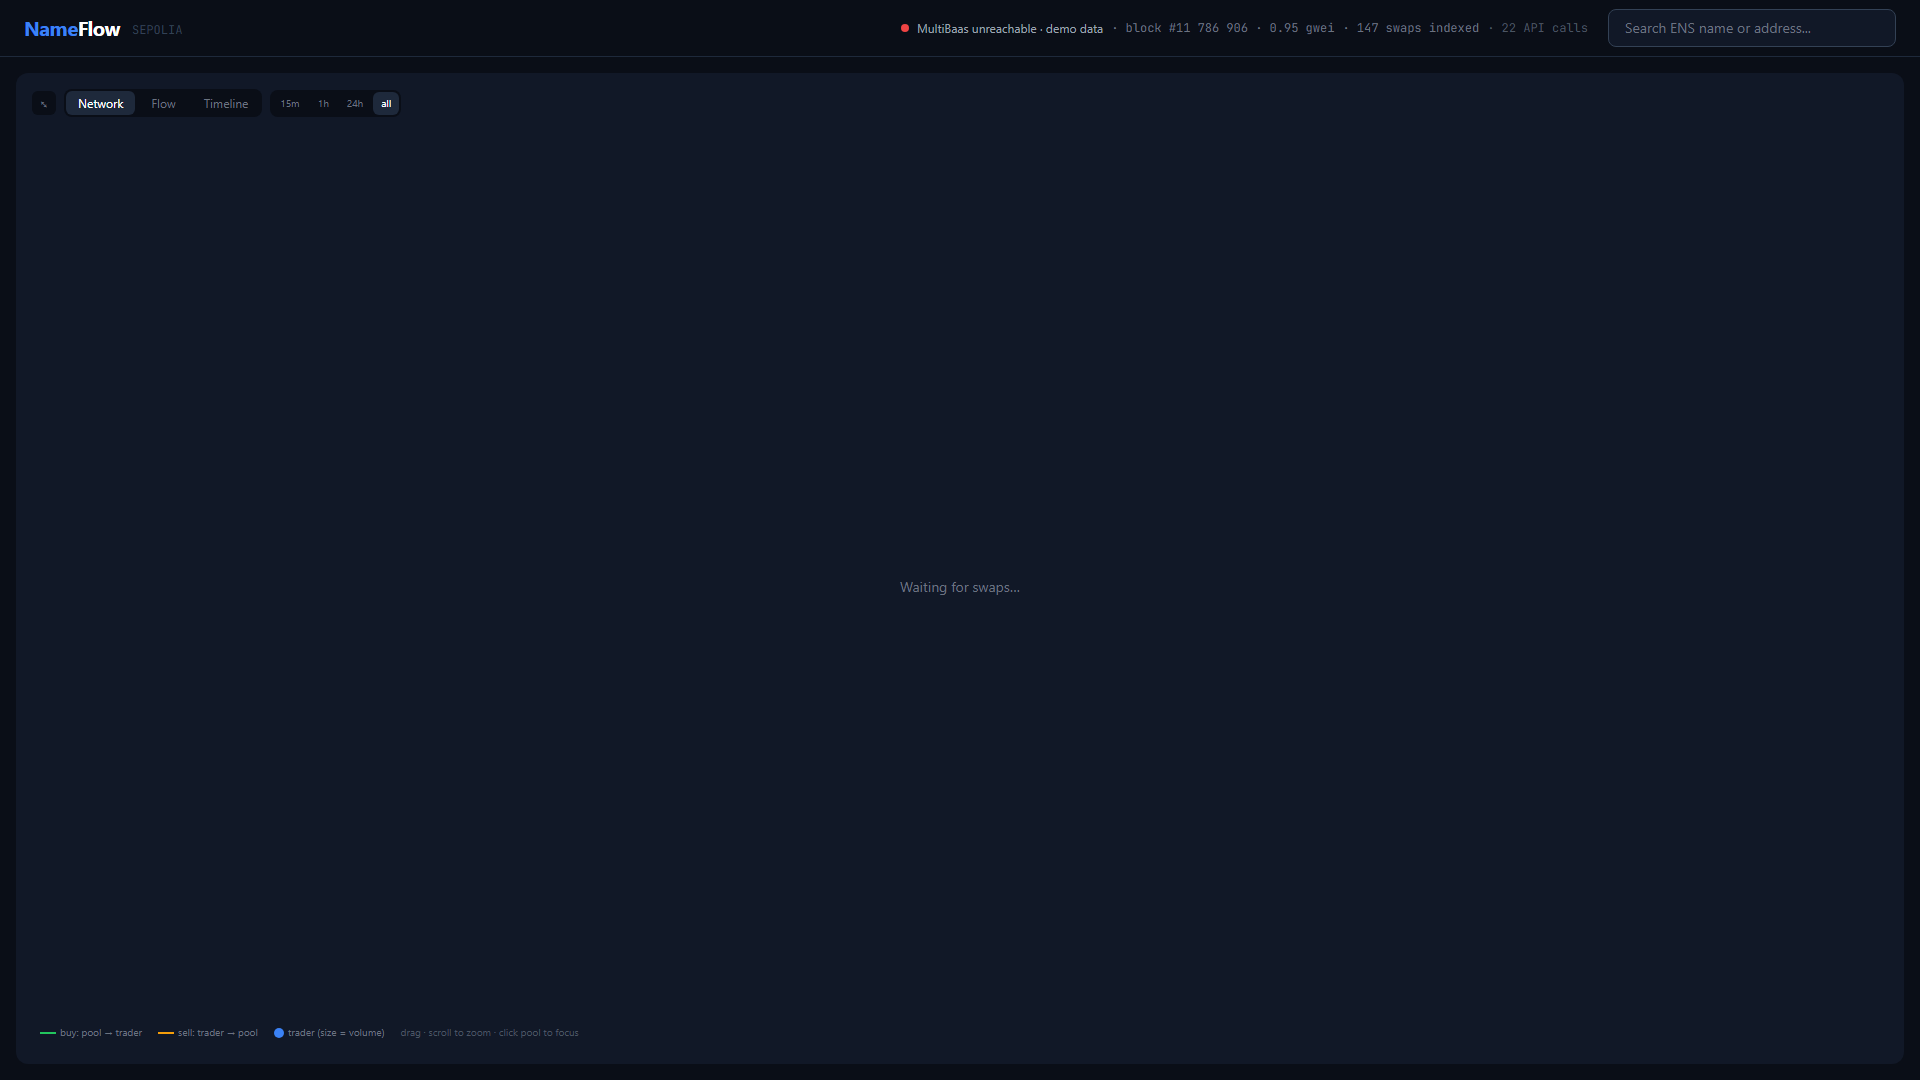
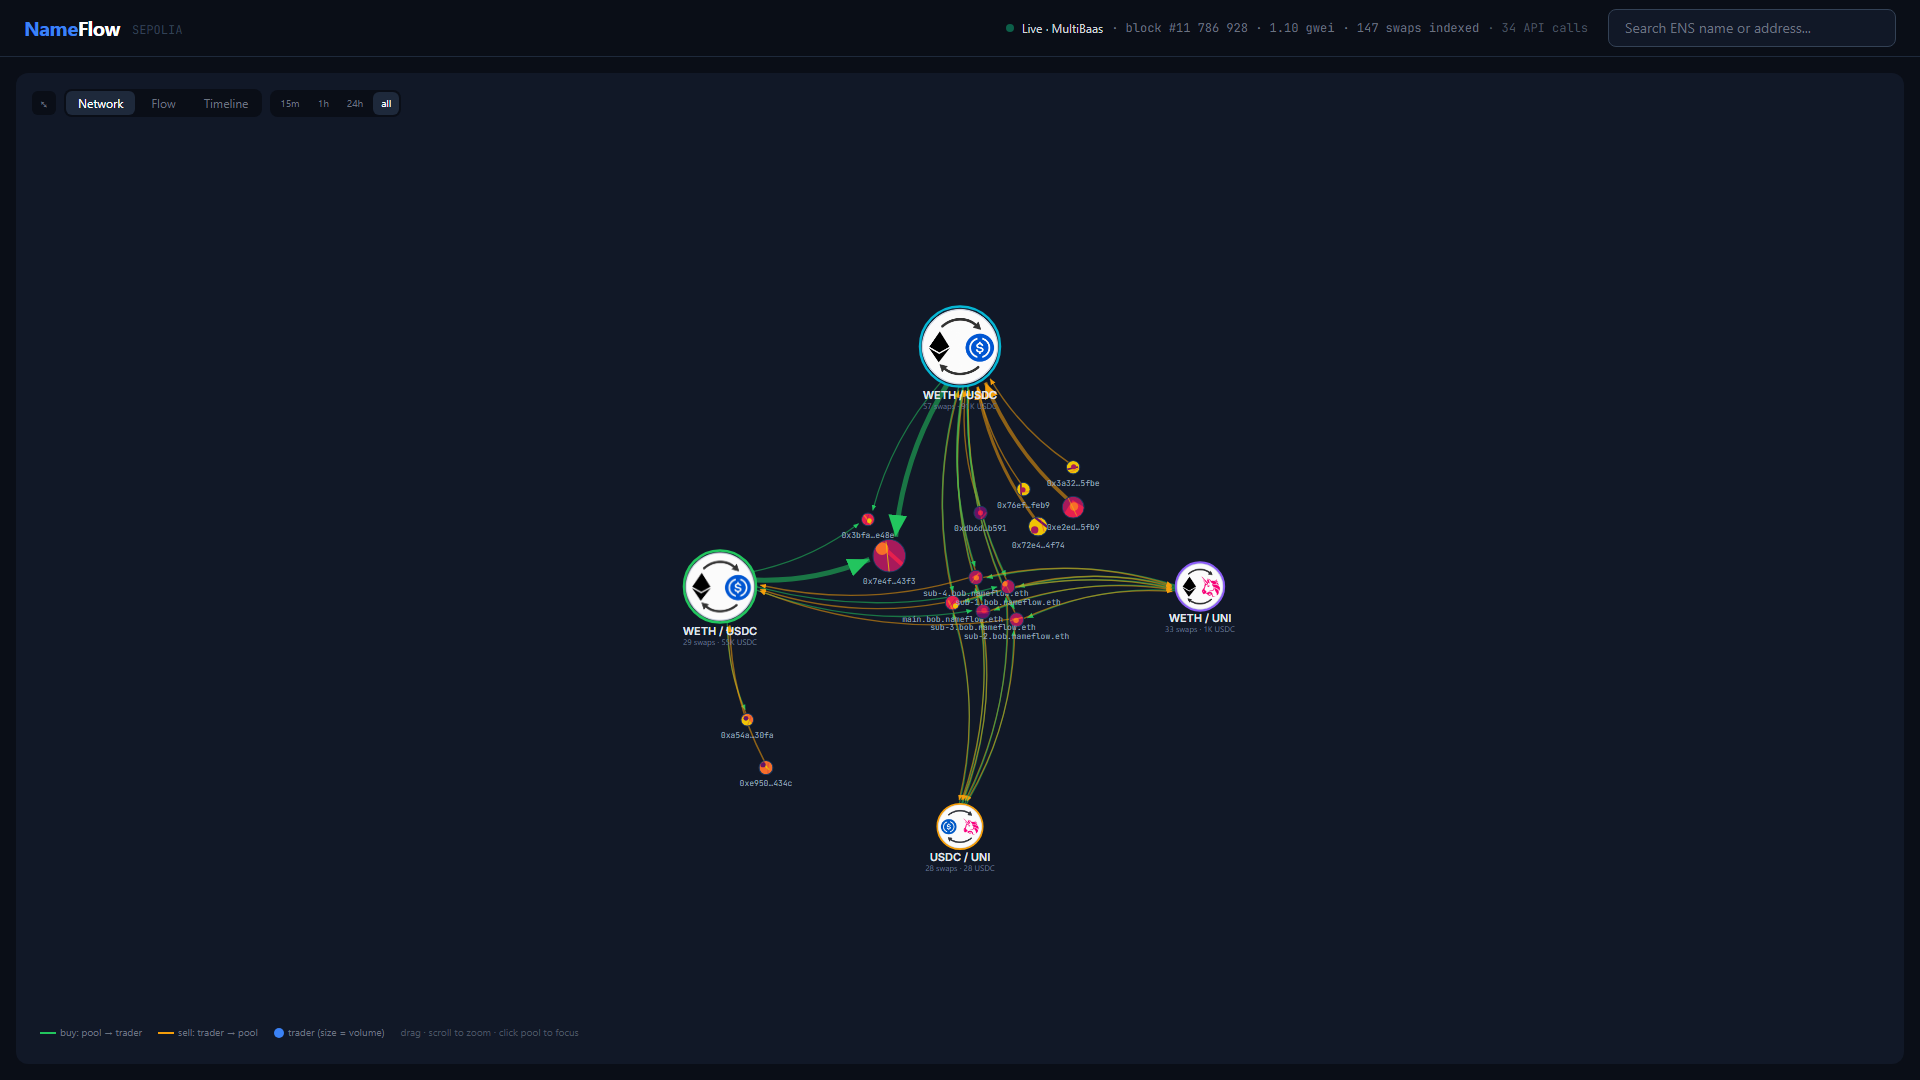
Graph auto-fits its panel; header needs two failed polls before showing unreachable; Sankey clears header

Changed region(s): [[0.3438, 0.275, 0.6562, 0.7944], [0.4688, 0.0, 0.5625, 0.0306], [0.375, 0.6417, 0.4062, 0.7333]]

diff --git a/src/components/ForceGraph.vue b/src/components/ForceGraph.vue
@@ -48,6 +48,7 @@ let H = 0
 let nodeSel = null
 let linkSel = null
 let zoom = null
+let userZoomed = false
 
 const nodeCache = new Map()     // id -> node object (positions survive re-renders)
 const animatedIds = new Set()   // swap ids that already got a particle
@@ -80,6 +81,7 @@ onMounted(() => {
     H = height
     if (!svg) initGraph()
     else if (sizeChanged) {
+      userZoomed = false
       svg.attr('viewBox', `0 0 ${W} ${H}`)
       simulation.force('center', d3.forceCenter(W / 2, H / 2))
       updateGraph()
@@ -127,7 +129,10 @@ function initGraph() {
   root.append('g').attr('class', 'particles')
   root.append('g').attr('class', 'nodes')
 
-  zoom = d3.zoom().scaleExtent([0.4, 3]).on('zoom', (event) => root.attr('transform', event.transform))
+  zoom = d3.zoom().scaleExtent([0.4, 3]).on('zoom', (event) => {
+    root.attr('transform', event.transform)
+    if (event.sourceEvent) userZoomed = true // wheel/drag by the user: stop auto-fitting
+  })
   svg.call(zoom).on('dblclick.zoom', null)
   svg.on('click', (event) => {
     if (event.target === svg.node()) emit('select-trader', '')
@@ -139,7 +144,7 @@ function initGraph() {
     .force('center', d3.forceCenter(W / 2, H / 2))
     .force('collision', d3.forceCollide().radius((d) => d.r + 10))
     .alphaDecay(0.04)
-    .on('end', savePositions)
+    .on('end', () => { savePositions(); fitToView() })
 
   updateGraph()
 }
@@ -337,6 +342,21 @@ function updateGraph() {
 
   applyEmphasis()
   animateNewSwaps()
+}
+
+/** Zoom so the settled graph fills the panel (larger panels, e.g. full view, get a larger graph). */
+function fitToView() {
+  if (userZoomed || !simulation || !zoom || !W || !H) return
+  const nodes = simulation.nodes()
+  if (nodes.length < 2) return
+  const xs = nodes.map((n) => n.x), ys = nodes.map((n) => n.y)
+  const pad = 70
+  const bw = Math.max(d3.max(xs) - d3.min(xs), 1) + pad * 2
+  const bh = Math.max(d3.max(ys) - d3.min(ys), 1) + pad * 2
+  const scale = Math.max(0.5, Math.min(2.2, Math.min(W / bw, H / bh)))
+  const cx = (d3.max(xs) + d3.min(xs)) / 2, cy = (d3.max(ys) + d3.min(ys)) / 2
+  const t = d3.zoomIdentity.translate(W / 2 - cx * scale, H / 2 - cy * scale).scale(scale)
+  svg.transition().duration(600).call(zoom.transform, t)
 }
 
 function ticked() {

diff --git a/src/composables/useMultiBaas.js b/src/composables/useMultiBaas.js
@@ -91,6 +91,7 @@ const swaps = ref([])              // parsed rows, oldest first, at most MAX_ROW
 const lastFetchedAt = ref(null)
 const apiCalls = ref(0)            // MultiBaas requests made this session
 let indexedCount = -1              // how many rows of the saved query we have accounted for
+let syncFailures = 0               // consecutive failures; the header only goes red after two
 let demoLoaded = false
 
 function tracked(promise) {
@@ -116,6 +117,7 @@ export function useMultiBaas() {
       const countRes = await tracked(eventQueries.countEventQueryRecords('swap_events'))
       const count = Number(countRes.data.result) || 0
       isLive.value = true
+      syncFailures = 0
       lastFetchedAt.value = Date.now()
       totalSwaps.value = count
 
@@ -141,7 +143,8 @@ export function useMultiBaas() {
     } catch (err) {
       console.error('MultiBaas sync failed:', err)
       error.value = err?.response?.data?.message || err.message
-      isLive.value = false
+      syncFailures++
+      if (syncFailures >= 2 || !swaps.value.length) isLive.value = false
       if (!swaps.value.length && !demoLoaded) { swaps.value = getDummySwaps(); demoLoaded = true }
       throw err
     } finally {

diff --git a/docs/media/cover.html b/docs/media/cover.html
@@ -49,7 +49,7 @@
       <circle cx="1140" cy="480" r="13" fill="#f59e0b" stroke="#0a0e17" stroke-width="4"/>
       <text x="800" y="298" text-anchor="middle" font-family="JetBrains Mono, monospace" font-size="15" fill="#94a3b8">sub-1.bob.nameflow.eth</text>
       <text x="1010" y="465" text-anchor="middle" font-family="Inter, sans-serif" font-weight="700" font-size="16" fill="#e2e8f0">WETH / USDC</text>
-      <text x="1130" y="298" text-anchor="middle" font-family="JetBrains Mono, monospace" font-size="15" fill="#94a3b8">main.bob.nameflow.eth</text>
+      <text x="1185" y="298" text-anchor="end" font-family="JetBrains Mono, monospace" font-size="15" fill="#94a3b8">main.bob.nameflow.eth</text>
     </g>
   </svg>
   <div class="content">

diff --git a/src/components/FlowSankey.vue b/src/components/FlowSankey.vue
@@ -78,7 +78,7 @@ function draw() {
     .nodePadding(Math.max(6, Math.min(18, height / (nodeMap.size + 2))))
     .nodeAlign(sankeyJustify)
     .nodeSort((a, b) => b.value - a.value)
-    .extent([[Math.min(190, Math.round(width * 0.18)), 16], [width - 70, height - 6]])({
+    .extent([[Math.min(190, Math.round(width * 0.18)), 34], [width - 70, height - 6]])({
       nodes: [...nodeMap.values()].map((n) => ({ ...n })),
       links: [...linkMap.values()].map((l) => ({ ...l })),
     })
